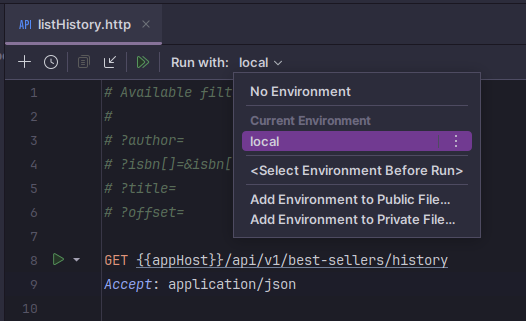
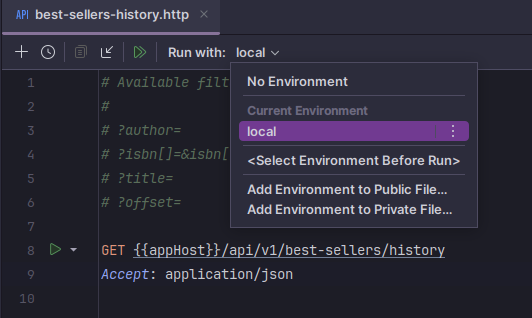
Improved caching.

diff --git a/app/Services/v1/BookService.php b/app/Services/v1/BookService.php
@@ -4,9 +4,9 @@ declare(strict_types=1);
 
 namespace App\Services\v1;
 
+use App\DTO\v1\BestSellersFiltersDto;
 use App\DTO\v1\BestSellersHistoryDto;
-use App\DTO\v1\DtoInterface;
-use App\DTO\v1\ListDto;
+use App\DTO\v1\FiltersDtoInterface;
 use App\Helpers\CacheHelper;
 use Illuminate\Http\Client\PendingRequest;
 use Illuminate\Http\Client\RequestException;
@@ -16,7 +16,7 @@ use Illuminate\Support\Facades\Http;
 use RuntimeException;
 use Throwable;
 
-class BestSellerService implements BestSellerServiceInterface
+class BookService implements BookServiceInterface
 {
     private readonly PendingRequest $client;
 
@@ -29,18 +29,9 @@ class BestSellerService implements BestSellerServiceInterface
     /**
      * @throws Throwable
      */
-    public function listHistory(ListDto $listDto): BestSellersHistoryDto
+    public function listBestSellersHistory(BestSellersFiltersDto $filtersDto): BestSellersHistoryDto
     {
-        $queryParams = $listDto->toQueryParams();
-        $cacheKey = CacheHelper::buildCacheKey($queryParams);
-
-        if (Cache::has($cacheKey)) {
-            return BestSellersHistoryDto::fromArray(Cache::get($cacheKey));
-        }
-
-        $data = $this->sendRequest('lists.bestSellersHistory', $listDto);
-
-        Cache::put($cacheKey, $data, config('cache.cacheTtl'));
+        $data = $this->sendRequest('lists.bestSellersHistory', $filtersDto);
 
         return BestSellersHistoryDto::fromArray($data);
     }
@@ -48,11 +39,22 @@ class BestSellerService implements BestSellerServiceInterface
     /**
      * @throws RequestException
      */
-    private function sendRequest(string $endpointName, DtoInterface $dto, string $version = 'v3')
+    private function sendRequest(string $endpointName, FiltersDtoInterface $filtersDto, string $version = 'v3')
     {
         $endpointUri = $this->getEndpointUri($version, $endpointName);
 
-        return $this->client->get($endpointUri, $dto->toQueryParams())->throw()->json();
+        $queryParams = $filtersDto->toQueryParams();
+        $cacheKey = CacheHelper::buildCacheKey($version, $queryParams);
+
+        if (Cache::has($cacheKey)) {
+            return Cache::get($cacheKey);
+        }
+
+        $response = $this->client->get($endpointUri, $queryParams)->throw()->json();
+
+        Cache::put($cacheKey, $response, config('cache.cacheTtl'));
+
+        return $response;
     }
 
     private function getEndpointUri(string $version, $endpointName): string

diff --git a/app/Http/Controllers/v1/BestSellerController.php b/app/Http/Controllers/v1/BestSellerController.php
@@ -4,23 +4,23 @@ declare(strict_types=1);
 
 namespace App\Http\Controllers\v1;
 
-use App\DTO\v1\ListDto;
+use App\DTO\v1\BestSellersFiltersDto;
 use App\Http\Requests\v1\BestSellerHistoryListRequest;
 use App\Http\Resources\v1\BestSellersHistoryResource;
-use App\Services\v1\BestSellerServiceInterface;
+use App\Services\v1\BookServiceInterface;
 use Illuminate\Routing\Controller;
 use Throwable;
 
 class BestSellerController extends Controller
 {
-    public function __construct(private readonly BestSellerServiceInterface $service) {}
+    public function __construct(private readonly BookServiceInterface $service) {}
 
     /**
      * @throws Throwable
      */
     public function __invoke(BestSellerHistoryListRequest $request): BestSellersHistoryResource
     {
-        $data = $this->service->listHistory(ListDto::fromRequest($request));
+        $data = $this->service->listBestSellersHistory(BestSellersFiltersDto::fromRequest($request));
 
         return BestSellersHistoryResource::make($data);
     }

diff --git a/tests/Feature/v1/BestSellerControllerTest.php b/tests/Feature/v1/BestSellerControllerTest.php
@@ -4,6 +4,7 @@ declare(strict_types=1);
 
 namespace Tests\Feature\v1;
 
+use App\Helpers\CacheHelper;
 use Illuminate\Support\Facades\Cache;
 use Illuminate\Support\Facades\Http;
 use Symfony\Component\HttpFoundation\Response;
@@ -12,7 +13,7 @@ use Tests\TestCase;
 
 class BestSellerControllerTest extends TestCase
 {
-    private const ROUTE = '/api/v1/bestSellers/history';
+    private const ROUTE = '/api/v1/best-sellers/history';
 
     private const URL_TO_FAKE = 'https://api.nytimes.com/svc/books/v3/lists/best-sellers/history.json*';
 
@@ -31,7 +32,7 @@ class BestSellerControllerTest extends TestCase
 
         $response = $this->get(self::ROUTE);
 
-        $this->assertTrue(Cache::has(md5(config('cache.prefix'))));
+        $this->assertTrue(Cache::has(CacheHelper::buildCacheKey('v3', [])));
 
         $response->assertStatus(200);
         $response->assertJsonFragment([

diff --git a/app/Providers/AppServiceProvider.php b/app/Providers/AppServiceProvider.php
@@ -4,14 +4,14 @@ declare(strict_types=1);
 
 namespace App\Providers;
 
-use App\Services\v1\BestSellerService;
-use App\Services\v1\BestSellerServiceInterface;
+use App\Services\v1\BookService;
+use App\Services\v1\BookServiceInterface;
 use Illuminate\Support\ServiceProvider;
 
 class AppServiceProvider extends ServiceProvider
 {
     public array $bindings = [
-        BestSellerServiceInterface::class => BestSellerService::class,
+        BookServiceInterface::class => BookService::class,
     ];
 
     public function register(): void {}

diff --git a/app/Helpers/CacheHelper.php b/app/Helpers/CacheHelper.php
@@ -6,10 +6,10 @@ namespace App\Helpers;
 
 class CacheHelper
 {
-    public static function buildCacheKey(array $identifiers): string
+    public static function buildCacheKey(string $version, array $identifiers): string
     {
         return md5(
-            implode(':', [config('cache.prefix'), ...$identifiers])
+            implode(':', [config('cache.prefix'), $version, ...$identifiers])
         );
     }
 }

diff --git a/app/Services/v1/BookServiceInterface.php b/app/Services/v1/BookServiceInterface.php
@@ -1,0 +1,11 @@
+<?php
+
+namespace App\Services\v1;
+
+use App\DTO\v1\BestSellersFiltersDto;
+use App\DTO\v1\BestSellersHistoryDto;
+
+interface BookServiceInterface
+{
+    public function listBestSellersHistory(BestSellersFiltersDto $filtersDto): BestSellersHistoryDto;
+}

diff --git a/app/DTO/v1/BestSellersFiltersDto.php b/app/DTO/v1/BestSellersFiltersDto.php
@@ -6,7 +6,7 @@ namespace App\DTO\v1;
 
 use App\Http\Requests\v1\BestSellerHistoryListRequest;
 
-class ListDto implements DtoInterface
+class BestSellersFiltersDto implements FiltersDtoInterface
 {
     public function __construct(
         private readonly string $author,

diff --git a/routes/api/v1.php b/routes/api/v1.php
@@ -3,4 +3,4 @@
 use App\Http\Controllers\v1\BestSellerController;
 use Illuminate\Support\Facades\Route;
 
-Route::get('bestSellers/history', BestSellerController::class);
+Route::get('best-sellers/history', BestSellerController::class);

diff --git a/app/DTO/v1/FiltersDtoInterface.php b/app/DTO/v1/FiltersDtoInterface.php
@@ -2,7 +2,7 @@
 
 namespace App\DTO\v1;
 
-interface DtoInterface
+interface FiltersDtoInterface
 {
     public function toQueryParams(): array;
 }

diff --git a/README.md b/README.md
@@ -53,19 +53,19 @@ Endpoint can run using built in
 [PhpStorm HTTP Client](https://www.jetbrains.com/help/phpstorm/http-client-in-product-code-editor.html) and
 `.http` files where sample itself is configured.
 
-It can be found in `requestSamples/bestSellers/listHistory.http`. But to run endpoint, we need to configure
+It can be found in `requests/v1/best-sellers-history.http`. But to run endpoint, we need to configure
  environment a bit:
-- Make a copy of file `http-client.private.env.json.dist` in the `requestSamples` directory. File name
+- Make a copy of file `http-client.private.env.json.dist` in the `requests` directory. File name
 must be `http-client.private.env.json`:
 
 ![http-client.private.env.json.png](documentation/images/http-env-file.png)
 
 - Set env variable `local.appHost` with the host of application on your environment.
-- Open file `requestSamples/bestSellers/listHistory.http` and select environment `local`:
+- Open file `requests/v1/best-sellers-history.http` and select environment `local`:
 
 ![environment-selection.png](documentation/images/environment-selection.png)
 
-- Add necessary filters mentioned on lines 1–6 and Click on "Run" button on the line 8.
+- Add necessary filters mentioned on lines 1–6 and click on "Run" button on the line 8.
 
 ### CLI.
 
@@ -77,7 +77,7 @@ Application provides a shortcuts for a built-in commands:
 # Additional information.
 
 1. Filters validation is performed by `\App\Http\Requests\v1\BestSellerHistoryListRequest` class.
-2. Communication with NYT Best Sellers API is handled by `\App\Services\v1\BestSellerService` class.
+2. Communication with Books API is handled by `\App\Services\v1\BookService` class.
 3. Exceptions handling and their rendering to API response are performed by built-in Laravel's 
    `\App\Exceptions\Handler` class.
 4. API route is defined in `routes/api/v1.php` file.
